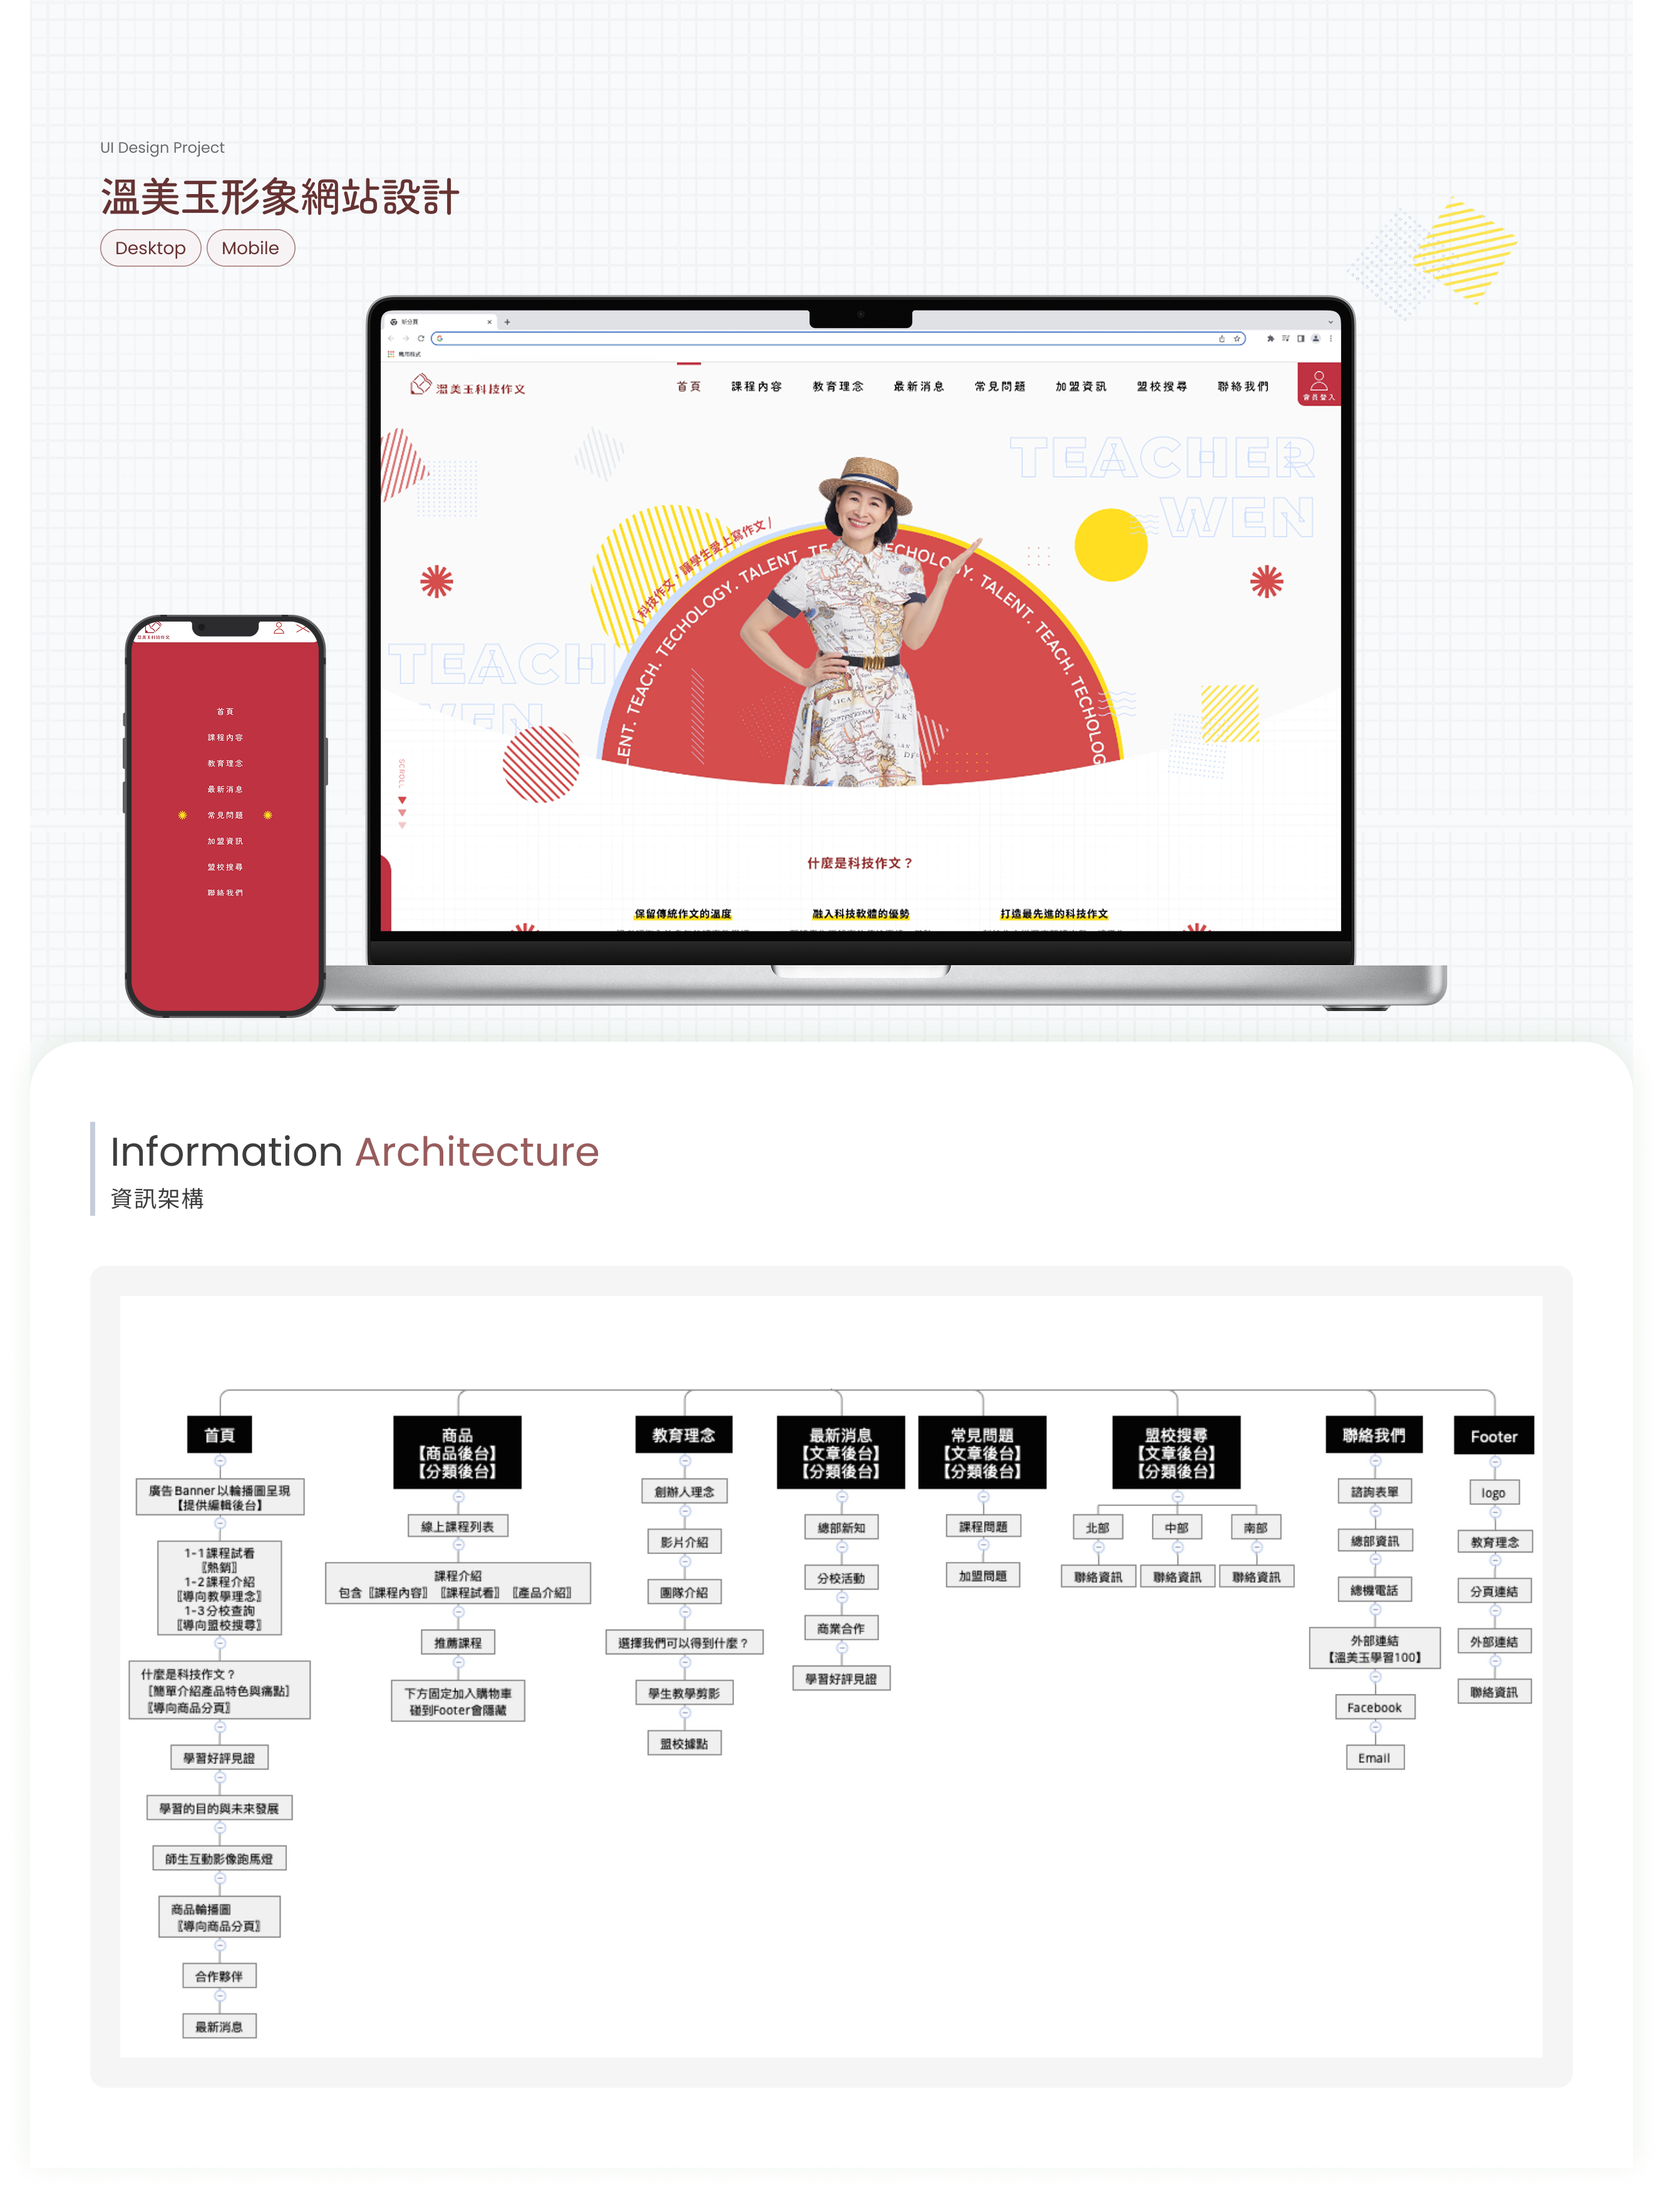
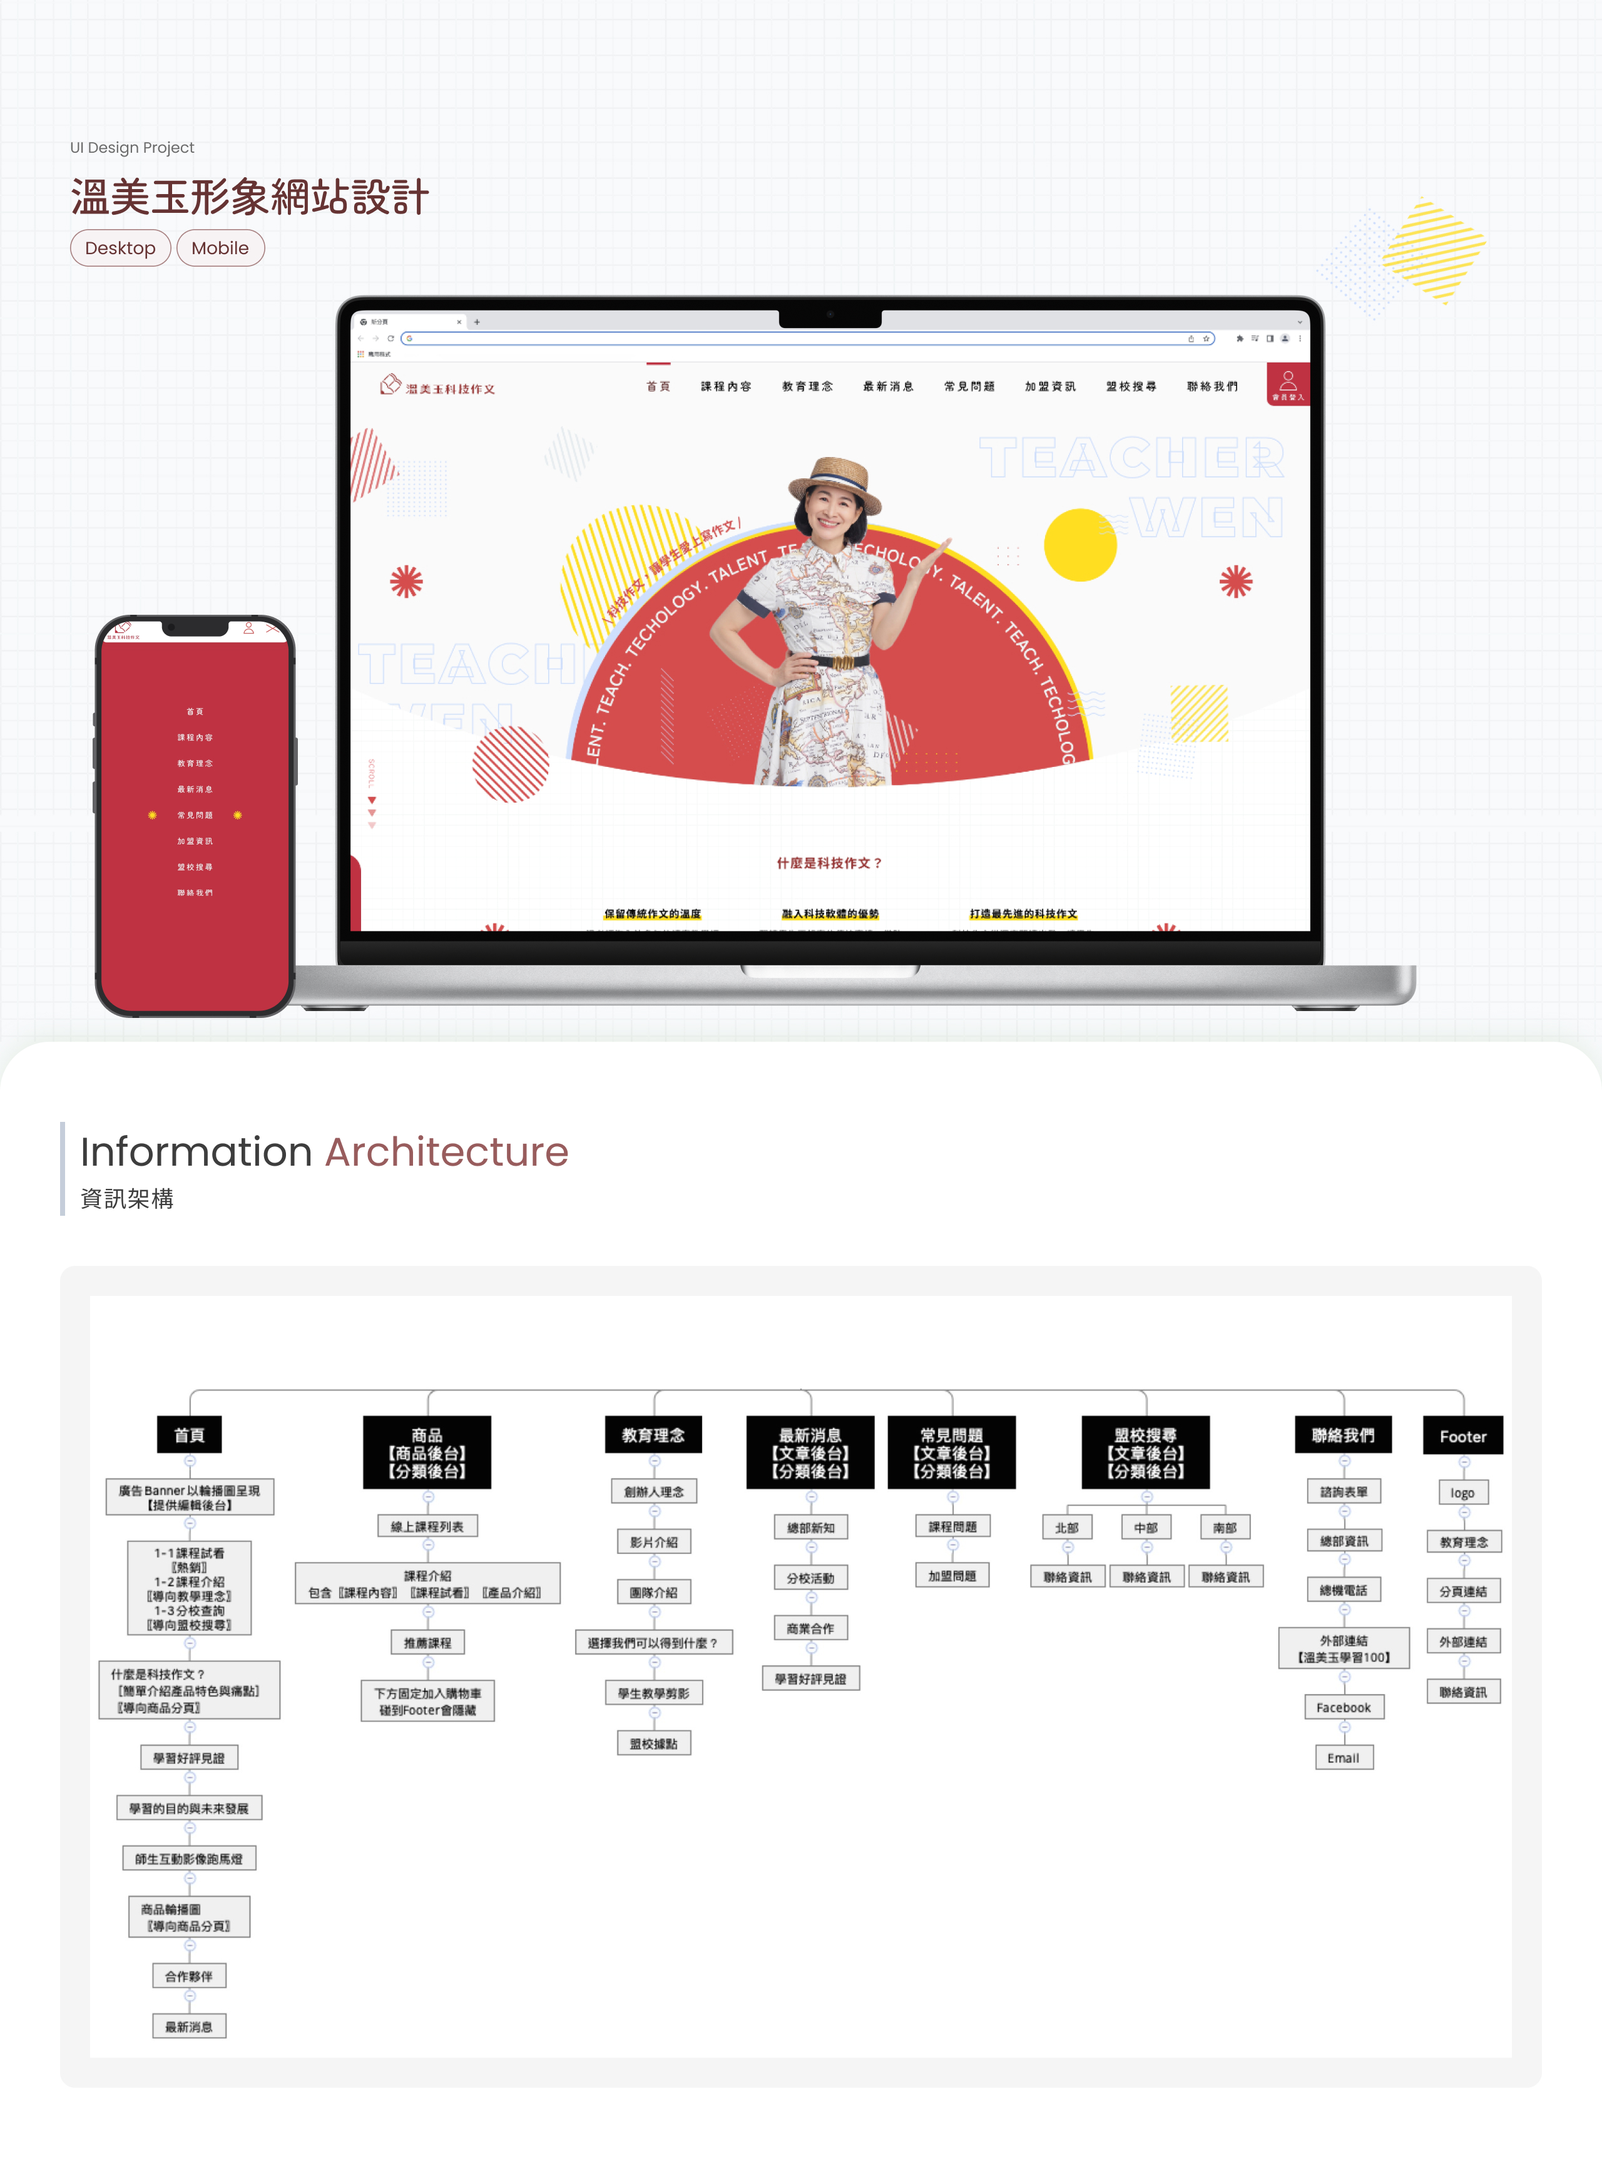
溫美玉: refresh 3 images (v=2)

diff --git a/project-teacherwen.html b/project-teacherwen.html
@@ -10,7 +10,7 @@
 <link rel="preconnect" href="https://fonts.googleapis.com">
 <link rel="preconnect" href="https://fonts.gstatic.com" crossorigin>
 <link href="https://fonts.googleapis.com/css2?family=Poppins:wght@300;400;500;600&family=Noto+Sans+TC:wght@300;400;500;600&display=swap" rel="stylesheet">
-<link rel="stylesheet" href="assets/styles.css?v=100">
+<link rel="stylesheet" href="assets/styles.css?v=101">
 </head>
 <body class="page-theme proj-wide">
 
@@ -48,10 +48,10 @@
 
 <!-- IMAGES + INLINE VIDEO -->
 <div style="max-width:1200px;margin:48px auto 0;padding:0 24px">
-  <img src="./images/teacherwen-01.jpg" alt="溫美玉形象網站設計 — 01" style="width:100%;height:auto;display:block">
+  <img src="./images/teacherwen-01.jpg?v=2" alt="溫美玉形象網站設計 — 01" style="width:100%;height:auto;display:block">
 </div>
 <div style="max-width:1200px;margin:0 auto;padding:0 24px">
-  <img src="./images/teacherwen-02.jpg" alt="溫美玉形象網站設計 — 02" style="width:100%;height:auto;display:block">
+  <img src="./images/teacherwen-02.jpg?v=2" alt="溫美玉形象網站設計 — 02" style="width:100%;height:auto;display:block">
 </div>
 <div style="max-width:1200px;margin:0 auto 100px;padding:0 24px">
   <video class="autoplay-video" src="./videos/teacherwen-desktop.mp4" autoplay muted loop playsinline preload="metadata" disablepictureinpicture controlslist="nodownload noremoteplayback nofullscreen" style="width:100%;height:auto;display:block;cursor:none;pointer-events:auto"></video>
@@ -72,6 +72,6 @@
 <script src="https://cdn.jsdelivr.net/npm/lenis@1.1.13/dist/lenis.min.js"></script>
 <script src="https://cdnjs.cloudflare.com/ajax/libs/gsap/3.12.5/gsap.min.js"></script>
 <script src="https://cdnjs.cloudflare.com/ajax/libs/gsap/3.12.5/ScrollTrigger.min.js"></script>
-<script src="assets/main.js?v=100"></script>
+<script src="assets/main.js?v=101"></script>
 </body>
 </html>

diff --git a/uiux.html b/uiux.html
@@ -10,7 +10,7 @@
 <link rel="preconnect" href="https://fonts.googleapis.com">
 <link rel="preconnect" href="https://fonts.gstatic.com" crossorigin>
 <link href="https://fonts.googleapis.com/css2?family=Poppins:wght@300;400;500;600&family=Noto+Sans+TC:wght@300;400;500;600&display=swap" rel="stylesheet">
-<link rel="stylesheet" href="assets/styles.css?v=100">
+<link rel="stylesheet" href="assets/styles.css?v=101">
 </head>
 <body class="page-theme">
 
@@ -96,7 +96,7 @@
   </div>
 
   <a class="proj-card" href="project-teacherwen.html" data-hover>
-    <div class="cover"><img src="./images/teacherwen-00.jpg" alt="溫美玉形象網站設計"></div>
+    <div class="cover"><img src="./images/teacherwen-00.jpg?v=2" alt="溫美玉形象網站設計"></div>
     <div class="body">
       <div class="meta"><span>形象網站</span></div>
       <h3>溫美玉形象網站設計</h3>
@@ -134,6 +134,6 @@
 <script src="https://cdn.jsdelivr.net/npm/lenis@1.1.13/dist/lenis.min.js"></script>
 <script src="https://cdnjs.cloudflare.com/ajax/libs/gsap/3.12.5/gsap.min.js"></script>
 <script src="https://cdnjs.cloudflare.com/ajax/libs/gsap/3.12.5/ScrollTrigger.min.js"></script>
-<script src="assets/main.js?v=100"></script>
+<script src="assets/main.js?v=101"></script>
 </body>
 </html>

diff --git a/index.html b/index.html
@@ -10,7 +10,7 @@
 <link rel="preconnect" href="https://fonts.googleapis.com">
 <link rel="preconnect" href="https://fonts.gstatic.com" crossorigin>
 <link href="https://fonts.googleapis.com/css2?family=Poppins:wght@300;400;500;600&family=Noto+Sans+TC:wght@300;400;500;600&display=swap" rel="stylesheet">
-<link rel="stylesheet" href="assets/styles.css?v=100">
+<link rel="stylesheet" href="assets/styles.css?v=101">
 <style id="home-tweak">.hero,.hero-bg,.hero::after{display:none!important}</style>
 </head>
 <body>
@@ -153,6 +153,6 @@
 <script src="https://cdn.jsdelivr.net/npm/lenis@1.1.13/dist/lenis.min.js"></script>
 <script src="https://cdnjs.cloudflare.com/ajax/libs/gsap/3.12.5/gsap.min.js"></script>
 <script src="https://cdnjs.cloudflare.com/ajax/libs/gsap/3.12.5/ScrollTrigger.min.js"></script>
-<script src="assets/main.js?v=100"></script>
+<script src="assets/main.js?v=101"></script>
 </body>
 </html>

diff --git a/project.html b/project.html
@@ -10,7 +10,7 @@
 <link rel="preconnect" href="https://fonts.googleapis.com">
 <link rel="preconnect" href="https://fonts.gstatic.com" crossorigin>
 <link href="https://fonts.googleapis.com/css2?family=Poppins:wght@300;400;500;600&family=Noto+Sans+TC:wght@300;400;500;600&display=swap" rel="stylesheet">
-<link rel="stylesheet" href="assets/styles.css?v=100">
+<link rel="stylesheet" href="assets/styles.css?v=101">
 </head>
 <body class="page-theme proj-wide">
 
@@ -124,6 +124,6 @@
 <script src="https://cdn.jsdelivr.net/npm/lenis@1.1.13/dist/lenis.min.js"></script>
 <script src="https://cdnjs.cloudflare.com/ajax/libs/gsap/3.12.5/gsap.min.js"></script>
 <script src="https://cdnjs.cloudflare.com/ajax/libs/gsap/3.12.5/ScrollTrigger.min.js"></script>
-<script src="assets/main.js?v=100"></script>
+<script src="assets/main.js?v=101"></script>
 </body>
 </html>

diff --git a/project-easycycle.html b/project-easycycle.html
@@ -10,7 +10,7 @@
 <link rel="preconnect" href="https://fonts.googleapis.com">
 <link rel="preconnect" href="https://fonts.gstatic.com" crossorigin>
 <link href="https://fonts.googleapis.com/css2?family=Poppins:wght@300;400;500;600&family=Noto+Sans+TC:wght@300;400;500;600&display=swap" rel="stylesheet">
-<link rel="stylesheet" href="assets/styles.css?v=100">
+<link rel="stylesheet" href="assets/styles.css?v=101">
 </head>
 <body class="page-theme proj-wide">
 
@@ -72,6 +72,6 @@
 <script src="https://cdn.jsdelivr.net/npm/lenis@1.1.13/dist/lenis.min.js"></script>
 <script src="https://cdnjs.cloudflare.com/ajax/libs/gsap/3.12.5/gsap.min.js"></script>
 <script src="https://cdnjs.cloudflare.com/ajax/libs/gsap/3.12.5/ScrollTrigger.min.js"></script>
-<script src="assets/main.js?v=100"></script>
+<script src="assets/main.js?v=101"></script>
 </body>
 </html>

diff --git a/project-easycycle2.html b/project-easycycle2.html
@@ -10,7 +10,7 @@
 <link rel="preconnect" href="https://fonts.googleapis.com">
 <link rel="preconnect" href="https://fonts.gstatic.com" crossorigin>
 <link href="https://fonts.googleapis.com/css2?family=Poppins:wght@300;400;500;600&family=Noto+Sans+TC:wght@300;400;500;600&display=swap" rel="stylesheet">
-<link rel="stylesheet" href="assets/styles.css?v=100">
+<link rel="stylesheet" href="assets/styles.css?v=101">
 </head>
 <body class="page-theme proj-wide">
 
@@ -69,6 +69,6 @@
 <script src="https://cdn.jsdelivr.net/npm/lenis@1.1.13/dist/lenis.min.js"></script>
 <script src="https://cdnjs.cloudflare.com/ajax/libs/gsap/3.12.5/gsap.min.js"></script>
 <script src="https://cdnjs.cloudflare.com/ajax/libs/gsap/3.12.5/ScrollTrigger.min.js"></script>
-<script src="assets/main.js?v=100"></script>
+<script src="assets/main.js?v=101"></script>
 </body>
 </html>

diff --git a/project-greenroad.html b/project-greenroad.html
@@ -10,7 +10,7 @@
 <link rel="preconnect" href="https://fonts.googleapis.com">
 <link rel="preconnect" href="https://fonts.gstatic.com" crossorigin>
 <link href="https://fonts.googleapis.com/css2?family=Poppins:wght@300;400;500;600&family=Noto+Sans+TC:wght@300;400;500;600&display=swap" rel="stylesheet">
-<link rel="stylesheet" href="assets/styles.css?v=100">
+<link rel="stylesheet" href="assets/styles.css?v=101">
 </head>
 <body class="page-theme proj-wide">
 
@@ -69,6 +69,6 @@
 <script src="https://cdn.jsdelivr.net/npm/lenis@1.1.13/dist/lenis.min.js"></script>
 <script src="https://cdnjs.cloudflare.com/ajax/libs/gsap/3.12.5/gsap.min.js"></script>
 <script src="https://cdnjs.cloudflare.com/ajax/libs/gsap/3.12.5/ScrollTrigger.min.js"></script>
-<script src="assets/main.js?v=100"></script>
+<script src="assets/main.js?v=101"></script>
 </body>
 </html>

diff --git a/project-nmtl.html b/project-nmtl.html
@@ -10,7 +10,7 @@
 <link rel="preconnect" href="https://fonts.googleapis.com">
 <link rel="preconnect" href="https://fonts.gstatic.com" crossorigin>
 <link href="https://fonts.googleapis.com/css2?family=Poppins:wght@300;400;500;600&family=Noto+Sans+TC:wght@300;400;500;600&display=swap" rel="stylesheet">
-<link rel="stylesheet" href="assets/styles.css?v=100">
+<link rel="stylesheet" href="assets/styles.css?v=101">
 </head>
 <body class="page-theme proj-wide">
 
@@ -69,6 +69,6 @@
 <script src="https://cdn.jsdelivr.net/npm/lenis@1.1.13/dist/lenis.min.js"></script>
 <script src="https://cdnjs.cloudflare.com/ajax/libs/gsap/3.12.5/gsap.min.js"></script>
 <script src="https://cdnjs.cloudflare.com/ajax/libs/gsap/3.12.5/ScrollTrigger.min.js"></script>
-<script src="assets/main.js?v=100"></script>
+<script src="assets/main.js?v=101"></script>
 </body>
 </html>

diff --git a/project-yisinda.html b/project-yisinda.html
@@ -10,7 +10,7 @@
 <link rel="preconnect" href="https://fonts.googleapis.com">
 <link rel="preconnect" href="https://fonts.gstatic.com" crossorigin>
 <link href="https://fonts.googleapis.com/css2?family=Poppins:wght@300;400;500;600&family=Noto+Sans+TC:wght@300;400;500;600&display=swap" rel="stylesheet">
-<link rel="stylesheet" href="assets/styles.css?v=100">
+<link rel="stylesheet" href="assets/styles.css?v=101">
 </head>
 <body class="page-theme proj-wide">
 
@@ -79,6 +79,6 @@
 <script src="https://cdn.jsdelivr.net/npm/lenis@1.1.13/dist/lenis.min.js"></script>
 <script src="https://cdnjs.cloudflare.com/ajax/libs/gsap/3.12.5/gsap.min.js"></script>
 <script src="https://cdnjs.cloudflare.com/ajax/libs/gsap/3.12.5/ScrollTrigger.min.js"></script>
-<script src="assets/main.js?v=100"></script>
+<script src="assets/main.js?v=101"></script>
 </body>
 </html>

diff --git a/motion.html b/motion.html
@@ -10,7 +10,7 @@
 <link rel="preconnect" href="https://fonts.googleapis.com">
 <link rel="preconnect" href="https://fonts.gstatic.com" crossorigin>
 <link href="https://fonts.googleapis.com/css2?family=Poppins:wght@300;400;500;600&family=Noto+Sans+TC:wght@300;400;500;600&display=swap" rel="stylesheet">
-<link rel="stylesheet" href="assets/styles.css?v=100">
+<link rel="stylesheet" href="assets/styles.css?v=101">
 </head>
 <body class="page-theme">
 
@@ -114,6 +114,6 @@
 <script src="https://cdn.jsdelivr.net/npm/lenis@1.1.13/dist/lenis.min.js"></script>
 <script src="https://cdnjs.cloudflare.com/ajax/libs/gsap/3.12.5/gsap.min.js"></script>
 <script src="https://cdnjs.cloudflare.com/ajax/libs/gsap/3.12.5/ScrollTrigger.min.js"></script>
-<script src="assets/main.js?v=100"></script>
+<script src="assets/main.js?v=101"></script>
 </body>
 </html>
